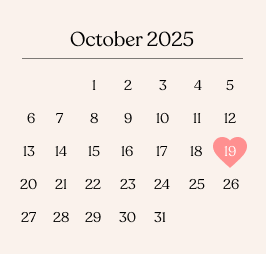
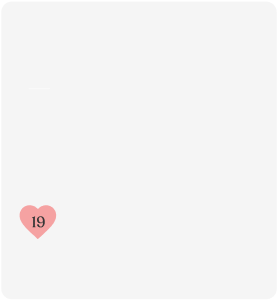
revision 3

diff --git a/src/lib/templates/guest-chun.svelte b/src/lib/templates/guest-chun.svelte
@@ -774,15 +774,49 @@ if (storytellingContainer) {
   const progressBar = document.querySelector('.story-progress-bar');
   const progressFill = document.querySelector('.story-progress-fill');
   
-  const tl = gsap.timeline({
-    scrollTrigger: {
-      trigger: ".storytelling-container",
-      start: "top top",
-      end: `+=${lines.length * 1200}`, 
-      scrub: 1,
-      pin: true,
-      anticipatePin: 1,
-      onUpdate: (self) => {
+  // Track background state
+  let lastProgress = 0;
+  let currentBackgroundStep = 0;
+  const totalBackgroundSteps = Math.floor(lines.length / 2); // One background change every 2 lines
+  
+const tl = gsap.timeline({
+  scrollTrigger: {
+    trigger: ".storytelling-container",
+    start: "top top",
+    end: `+=${lines.length * 1200}`, 
+    scrub: 1,
+    pin: true,
+    anticipatePin: 1,
+    pinType: "fixed", // ← Add this to use position: fixed instead of transforms
+    onUpdate: (self) => {
+        const currentProgress = self.progress;
+        const direction = currentProgress > lastProgress ? 1 : -1; // 1 = down, -1 = up
+        
+        // Calculate which background step we should be on based on progress
+        const targetStep = Math.floor(currentProgress * totalBackgroundSteps);
+        
+        // Update background if step has changed and we have images
+        if (targetStep !== currentBackgroundStep && images.length > 0) {
+          // Clamp the target step to valid range
+          const clampedStep = Math.max(0, Math.min(targetStep, images.length - 1));
+          
+          if (direction === 1) {
+            // Scrolling down - move forward through images
+            currentBgIndex = clampedStep;
+          } else {
+            // Scrolling up - move backward through images
+            currentBgIndex = clampedStep;
+          }
+          
+          currentBackgroundStep = targetStep;
+          console.log(`GSAP: Direction: ${direction === 1 ? 'down' : 'up'}, Progress: ${currentProgress.toFixed(3)}, Step: ${targetStep}, Background Index: ${currentBgIndex}`);
+          
+          // Force Svelte reactivity
+          currentBgIndex = currentBgIndex;
+        }
+        
+        lastProgress = currentProgress;
+        
         // Update progress bar
         if (progressFill) {
           progressFill.style.width = `${self.progress * 100}%`;
@@ -824,9 +858,7 @@ if (storytellingContainer) {
     }
   });
 
-
-
-  // Create line-by-line animations
+  // Create line-by-line animations (removing the old background change logic)
   lines.forEach((_, i) => {
     if (i < lines.length - 1) {
       // Hide scroll indicator on first transition
@@ -837,19 +869,8 @@ if (storytellingContainer) {
         }, `line${i + 1}`);
       }
 
-      // Change background every 2 lines
-     if (i > 0 && i % 2 === 0) {
-  tl.add(() => {
-    // Only change if we have images loaded
-    if (images.length > 0) {
-      currentBgIndex = (currentBgIndex + 1) % images.length;
-      console.log(`GSAP: Changing background to index ${currentBgIndex}, image: ${images[currentBgIndex]}`);
-      
-      // Force Svelte reactivity by creating a new assignment
-      currentBgIndex = currentBgIndex;
-    }
-  }, `line${i + 1}`);
-}
+      // Remove the old background changing logic from here
+      // The background now changes based on scroll progress in onUpdate
       
       // Fade out current line
       tl.to(`.story-line-${i}`, { 
@@ -936,31 +957,21 @@ function handleVisibilityChange() {
 }
 
   // ─── Scroll to Devotions Section ─────────────────────────────────────────
-  function unlockScrollAndScrollDown() {
-    const targetY = window.innerHeight;
-    const startY = window.pageYOffset;
-    const distance = targetY - startY;
-    const duration = 1000; // milliseconds
-    let startTime = null;
-
-    function smoothScroll(currentTime) {
-      if (startTime === null) startTime = currentTime;
-      const timeElapsed = currentTime - startTime;
-      const progress = Math.min(timeElapsed / duration, 1);
-      
-      // Ease-out function for smooth deceleration
-      const ease = 1 - Math.pow(1 - progress, 3);
-      
-      window.scrollTo(0, startY + (distance * ease));
-      
-      if (progress < 1) {
-        requestAnimationFrame(smoothScroll);
-      }
-    }
-    
-    requestAnimationFrame(smoothScroll);
+ function unlockScrollAndScrollDown() {
+  const storytellingContainer = document.querySelector('.storytelling-container');
+  
+  if (!storytellingContainer) {
+    console.error('Storytelling container not found');
+    return;
   }
-
+  
+  // Use native smooth scrolling to the exact element position
+  storytellingContainer.scrollIntoView({
+    behavior: 'smooth',
+    block: 'start', // Align to the top of the element
+    inline: 'nearest'
+  });
+}
   // ─── Account Copy ─────────────────────────────────────────────────────────
   async function copyAccountNumber(number) {
     try {
@@ -1110,23 +1121,7 @@ function handleVisibilityChange() {
 
   $: inviteImageUrl = `https://your-supabase-url.supabase.co/storage/v1/object/public/invites-images/${data.clientData?.slug || 'default'}/preview.webp`;
   $: currentUrl = `https://startswithlove.com${$page.url.pathname}`;
-$: if (typeof document !== 'undefined' && images.length > 0 && typeof currentBgIndex === 'number') {
-  setTimeout(() => {
-    const bgSlides = document.querySelectorAll('.bg-slide');
-    console.log(`Reactive: Found ${bgSlides.length} bg-slides, currentBgIndex: ${currentBgIndex}, images.length: ${images.length}`);
-    
-    if (bgSlides.length > 0 && currentBgIndex < images.length) {
-      bgSlides.forEach((slide, index) => {
-        if (index === currentBgIndex) {
-          slide.classList.add('active');
-          console.log(`✅ Activated slide ${index}`);
-        } else {
-          slide.classList.remove('active');
-        }
-      });
-    }
-  }, 50);
-}
+
 
 </script>
 
@@ -1259,7 +1254,7 @@ $: if (typeof document !== 'undefined' && images.length > 0 && typeof currentBgI
 
   /* Getty Effect Storytelling Styles */
   .storytelling-container {
-    height: 100dvh;
+    height: 100vh;
     width: 100%;
     position: relative;
     background: transparent; /* Let video background show through */
@@ -1275,6 +1270,7 @@ $: if (typeof document !== 'undefined' && images.length > 0 && typeof currentBgI
     text-align: center;
     padding: 2rem;
     position: relative;
+  transform-origin: center center;
   }
   
   .story-line {
@@ -1298,9 +1294,13 @@ $: if (typeof document !== 'undefined' && images.length > 0 && typeof currentBgI
   position: fixed;
   inset: 0;
   z-index: -1;
+  transform-origin: center center;
+  will-change:auto;
+
+     transform:scale(1) !important;
 }
 .bg-slide {
-  position: absolute;
+  position: fixed;
   inset: 0;
   width: 100%;
   height: 100%;
@@ -1308,6 +1308,9 @@ $: if (typeof document !== 'undefined' && images.length > 0 && typeof currentBgI
   opacity: 0;
   background-color: black;
   transition: opacity 1s ease-in-out;
+   will-change: opacity;
+    backface-visibility: hidden; 
+     transform: scale(1) !important;
 }
 .bg-slide.active {
   opacity: 1;
@@ -1635,7 +1638,7 @@ $: if (typeof document !== 'undefined' && images.length > 0 && typeof currentBgI
     <!-- Desktop Layout Wrapper -->
     <div class="hidden lg:flex h-screen overflow-hidden">
       <!-- Left Panel - New Landing Section (Desktop Only) -->
-      <div class="w-[60%] h-full relative overflow-hidden">
+      <div class="w-full h-full relative overflow-hidden">
         <!-- Background Image Carousel -->
         {#if images.length > 0}
           <img
@@ -1673,7 +1676,7 @@ $: if (typeof document !== 'undefined' && images.length > 0 && typeof currentBgI
            
     <!-- Mobile Layout -->
    <div class="lg:hidden">
-    <section class="h-[100svh] relative flex flex-col items-center justify-center text-center text-white">
+    <section class="h-[100vh] relative flex flex-col items-center justify-center text-center text-white">
     <div class="background-images">
       {#if backgroundImageUrl}
         <img
@@ -1703,7 +1706,7 @@ $: if (typeof document !== 'undefined' && images.length > 0 && typeof currentBgI
   </section>
 
 
-  <section bind:this={section} class="storytelling-container h-[100svh]">
+  <section bind:this={section} class="storytelling-container h-[100vh]">
       <div class="background-images">
     {#each images as img, i}
       <img 
@@ -1735,7 +1738,7 @@ $: if (typeof document !== 'undefined' && images.length > 0 && typeof currentBgI
 
       <!--Devotions-->
       {#if invite.section_toggle.includes("devotions")}
-      <div id="devotions" class="relative z-10 flex flex-col items-center justify-center text-center min-h-[100svh] px-4 sm:px-6 space-y-8 sm:space-y-12"> 
+      <div id="devotions" class="relative z-10 flex flex-col items-center justify-center text-center min-h-[100vh] px-4 sm:px-6 space-y-8 sm:space-y-12"> 
         <img src="/cross.png" alt="cross" class="w-4 h-5 sm:w-3 sm:h-4 object-fill opacity-80 fade-in">
         <h1 class="font-h2 text-white fade-in">I have found the one whom my soul loves.</h1>
         <p class="font-smallcaption font-bold text-white uppercase tracking-[1em] sm:tracking-[1.5em] md:tracking-[2em] opacity-90 text-xs sm:text-sm fade-in">SONG OF SOLOMON 3:4</p>
@@ -1814,7 +1817,7 @@ $: if (typeof document !== 'undefined' && images.length > 0 && typeof currentBgI
       <!--End of Couple-->
 
       <!-- Events -->
-      <div class="flex flex-col events-section min-h-[100svh] items-center justify-center text-center px-8 sm:px-10 md:px-12 py-10 sm:py-12 md:py-14 text-white ">
+      <div class="flex flex-col events-section min-h-[100vh] items-center justify-center text-center px-8 sm:px-10 md:px-12 py-10 sm:py-12 md:py-14 text-white ">
         {#each events as event, index}
           <!-- Check if this event type should be shown based on section_toggle -->
           {#if invite.section_toggle.includes(event.event_type) || invite.section_toggle.includes("events")}
@@ -1896,13 +1899,13 @@ $: if (typeof document !== 'undefined' && images.length > 0 && typeof currentBgI
 
       {#if invite.section_toggle.includes("countdown")}
       <!--Countdown-->
-      <div class="relative z-10 flex flex-col items-center justify-center text-center min-h-[100svh] px-8 sm:px-6 space-y-8 sm:space-y-12 md:space-y-16">
+      <div class="relative z-10 flex flex-col items-center justify-center text-center min-h-[100vh] px-8 sm:px-6 space-y-8 sm:space-y-12 md:space-y-16">
         <h1 class="font-h2 text-white mb-10 sm:mb-14 md:mb-22 fade-in">Until Our Celebration</h1>
      
          <img
           src="/calendar.png"
           alt="Calendar static"
-          class="mb-10 max-h-[35dvh] sm:max-h-[40dvh] md:max-h-[50dvh] w-auto max-w-[80%] sm:max-w-[70%] md:max-w-[60%] object-contain mx-auto border rounded-xl"
+          class="mb-20 mt-10 max-h-[35vh] sm:max-h-[40vh] md:max-h-[50vh] w-auto max-w-[80%] sm:max-w-[70%] md:max-w-[60%] object-contain mx-auto border-none"
         />
       
         
@@ -1975,7 +1978,7 @@ $: if (typeof document !== 'undefined' && images.length > 0 && typeof currentBgI
 
       <!-- Wishes -->
       {#if invite.section_toggle.includes("wishes")}
-      <div class="relative w-full min-h-[100svh] wishes-section overflow-hidden">
+      <div class="relative w-full min-h-[100vh] wishes-section overflow-hidden">
         <div class="fade-in">
           <Wishes inviteId={invite.id}/>
         </div>
@@ -1985,7 +1988,7 @@ $: if (typeof document !== 'undefined' && images.length > 0 && typeof currentBgI
 
       <!-- Dress Code -->
       {#if invite.section_toggle.includes("dress-code")}
-      <div class="relative w-full min-h-[100svh] z-10 flex flex-col items-center justify-center text-center px-6 overflow-hidden">
+      <div class="relative w-full min-h-[100vh] z-10 flex flex-col items-center justify-center text-center px-6 overflow-hidden">
         <div class="fade-in">
           <!-- Content overlay -->
           <div class="text-white">
@@ -2020,9 +2023,9 @@ $: if (typeof document !== 'undefined' && images.length > 0 && typeof currentBgI
 
       {#if invite.section_toggle.includes("faq")}
       <!-- Rundown -->
-      <div class="relative w-full min-h-[100svh] overflow-hidden">
+      <div class="relative w-full min-h-[100vh] overflow-hidden">
         <div class="fade-in">
-          <div class="relative z-10 min-h-[100svh] flex flex-col items-center justify-center text-center text-white px-6 space-y-8">
+          <div class="relative z-10 min-h-[100vh] flex flex-col items-center justify-center text-center text-white px-6 space-y-8">
             <p class="font-smallcaption uppercase opacity-80 mb-6">EVENT RUNDOWN</p>
             <h1 class="font-h2 text-white mb-12">See everything we've got planned for you.</h1>
             
@@ -2041,7 +2044,7 @@ $: if (typeof document !== 'undefined' && images.length > 0 && typeof currentBgI
 
       <!-- Our Moments -->
       {#if invite.section_toggle.includes("our-moments")}
-      <div class="relative z-10 flex flex-col items-center justify-center text-center h-[100svh] px-4 sm:px-6 space-y-6 sm:space-y-8 text-white">
+      <div class="relative z-10 flex flex-col items-center justify-center text-center h-[100vh] px-4 sm:px-6 space-y-6 sm:space-y-8 text-white">
         <div class="fade-in">
           <h1 class="font-['Millionaire_Script'] text-3xl sm:text-4xl md:text-5xl mb-10 sm:mb-14 md:mb-22" style="color: #FAFAEF;">Our Moments</h1>
           <div class="flex flex-col items-center justify-center w-full mx-auto my-6 sm:my-8 md:my-10 px-4 z-10">
@@ -2064,7 +2067,7 @@ $: if (typeof document !== 'undefined' && images.length > 0 && typeof currentBgI
 
       {#if invite.section_toggle.includes("wedding-gift")}
       <!-- Wedding Gift-->
-      <div class="relative z-10 flex flex-col items-center justify-center text-center h-[100svh] px-4 sm:px-6 space-y-6 sm:space-y-8 text-white fade-in">
+      <div class="relative z-10 flex flex-col items-center justify-center text-center h-[100vh] px-4 sm:px-6 space-y-6 sm:space-y-8 text-white fade-in">
         <p class="font-smallcaption uppercase opacity-80 mb-6">WEDDING GIFT</p>
         <h1 class="font-h2">A Token of Love</h1>
 
@@ -2131,7 +2134,7 @@ $: if (typeof document !== 'undefined' && images.length > 0 && typeof currentBgI
 
       {#if invite.section_toggle.includes("thank-you")}
       <!--Thank you-->
-      <div class="relative flex flex-col items-center w-full h-[100dvh] fade-in">
+      <div class="relative flex flex-col items-center w-full h-[100vh] fade-in">
         <div class="absolute inset-0 bg-black opacity-0 z-[5] transition-opacity duration-1000 ease-in"></div>
         
         <div class="absolute inset-0 flex flex-col items-center text-center text-white z-10 p-6 sm:p-8 md:p-10">

diff --git a/src/lib/components/chun/personalrsvp-chun.svelte b/src/lib/components/chun/personalrsvp-chun.svelte
@@ -478,7 +478,7 @@ const sendEmail = async () => {
 }
 </style>
 
-<section class="min-h-[100dvh] rsvp-section flex flex-col justify-center items-center px-8 md:px-16 lg:px-28 text-white">
+<section class="min-h-[100vh] rsvp-section flex flex-col justify-center items-center px-8 md:px-16 lg:px-28 text-white">
   <div class="max-w-xl w-full space-y-6 fade-in">
     <div class="text-center space-y-4">
       <p class="uppercase font-smallcaption mb-6">Reserve your seat</p>
